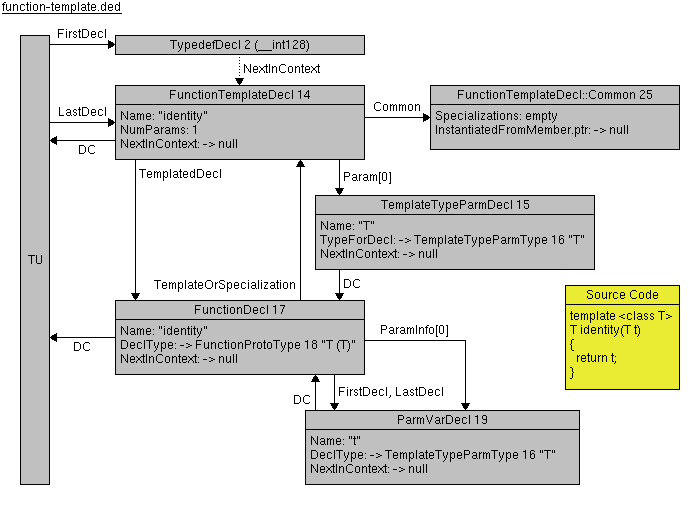
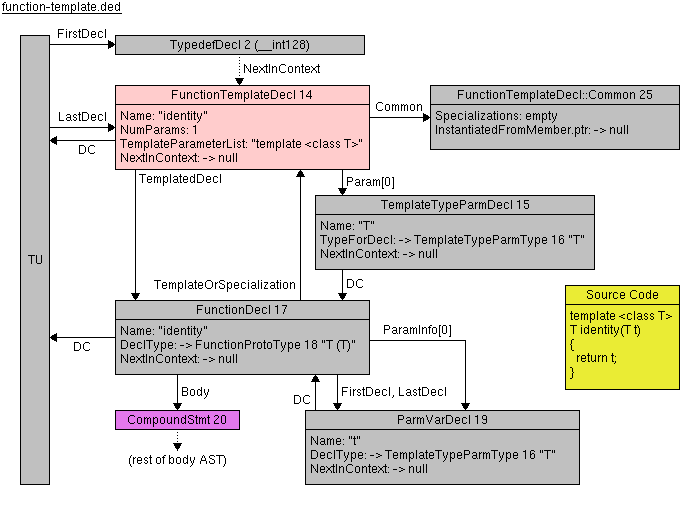
doc/ASTsForTemplates.rst: Revise through FunctionDecl.

diff --git a/doc/ASTsForTemplates.rst b/doc/ASTsForTemplates.rst
@@ -37,6 +37,16 @@ the former.  But AST elements that are orthogonal to templates and not
 conceptually foundational to them are described only briefly, or omitted
 entirely.
 
+This document currently omits discussion of some topics:
+
+* Template non-type parameters and template template parameters.
+
+* Template ``requires`` constraints.
+
+* Concepts.
+
+* [TODO: There are others.]
+
 There is some overlap between material here and the comments in the
 source code.  This document is meant to provide a complimentary overview
 of the most important structures, while source code comments go into
@@ -67,21 +77,33 @@ the C++ standard.  Some key terms are listed below:
   semantic entity (as well as being one particular syntactic declaration
   of it).
 
-* A non-dependent *type* represents a (usually infinite) set of
-  potential objects (run-time values).  To say an object has a type is
-  to say it is in the type's set.  A type is a *semantic* notion, not
-  inherently tied to any particular source code location.  However, in
-  the Clang AST, a type that was defined using a declaration (such as a
-  ``class`` or a ``typedef``) provides a way to navigate back to that
-  declaration, and some AST nodes contain ``TypeLoc`` objects that
-  augment a type with source location information for a particular
-  syntactic description of a type.  [TODO: I'm not entirely satisfied
-  with this definition, but the standard doesn't give one.]
+* A *type* is a semantic property of an expression or declared entity.
+  A non-dependent type constrains the set of allowable operations on the
+  expression or entity.  Object types (as opposed to function types)
+  also specify how many bytes of storage objects of that type occupy and
+  how those bytes are interpreted as mathematical objects.  Because a
+  type is a semantic notion, it (unlike a declaration) is not inherently
+  tied to any particular source location.  However, in the Clang AST, a
+  type that was defined using a declaration (such as a ``class`` or a
+  ``typedef``) provides a way to navigate back to that declaration, and
+  some AST nodes contain ``TypeLoc`` objects that augment a type with
+  source location information for a particular syntactic description of
+  a type.
 
-* A *dependent type* is a mathematical function whose input is a
-  sequence of template arguments and whose output is either a
-  non-dependent type if all of the arguments are non-dependent, or
-  another dependent type otherwise.
+* A *dependent type* is a type that depends in some way on unspecified
+  template arguments.  Generally, dependent types have fewer constraints
+  on the set of allowable operations and less information about size and
+  interpretation of their representation than do non-dependent types.
+
+* A *canonical type* is one constructed in such a way that two canonical
+  types are semantically equivalent if and only if they are structurally
+  identical.  For example, after ``typedef int MyInt;``, ``MyInt`` is
+  semantically equivalent to ``int`` but (in the Clang AST) is not
+  structurally identical because ``MyInt`` knows its user-defined name
+  and declaration location, so it is not canonical.  Given an arbitrary
+  type, the Clang API has methods (such as
+  ``QualType::getCanonicalType()``) to get the corresponding canonical
+  type.
 
 * A *template* is a kind of declaration, represented as an object that
   is a subtype of ``TemplateDecl``.  It corresponds to the
@@ -190,8 +212,25 @@ The primary objects of interest are ``FunctionTemplateDecl``,
 ``TemplateTypeParmDecl``, ``FunctionDecl``, and ``ParmVarDecl``.  We'll
 look at each in turn.
 
+
 ``FunctionTemplateDecl``
 ------------------------
+
+At a high level, ``FunctionTemplateDecl`` has three key pieces of data:
+
+* A sequence of template parameters.
+
+* A pointer to the templated function declaration.
+
+* The set of specializations, both implicit and explicit.
+
+That's probably enough to know on a first reading of this document, so
+you may want to skip the remainder of this section and come back later
+to study these foundational details.  This pattern is repeated
+throughout this document: for each type of object, there is a brief,
+high-level description, followed by details that are skippable on a
+first read.  The details always begin with the inheritance hierarchy,
+so that's the natural choice point regarding what to read when.
 
 Let's dig into ``FunctionTemplateDecl``.  Its inheritance structure is::
 
@@ -206,9 +245,9 @@ Let's dig into ``FunctionTemplateDecl``.  Its inheritance structure is::
 
 The Doxygen-generated documentation focuses on the public methods, but
 it is hard to tell how things really work by looking at that.  Instead,
-we need to look at the private data structure definitions.  The set of
-fields of ``FunctionTemplateDecl``, simplified a little by giving names
-to fields stored in the low bits of pointers, is:
+we need to look at the private data structure definitions.  The fields
+of ``FunctionTemplateDecl``, simplified a little by giving names to
+fields stored in the low bits of pointers, are:
 
 * From base class ``Decl``:
 
@@ -310,19 +349,19 @@ For the example fragment above, the most important relations are:
 * ``Redeclarable::Previous`` points to itself, meaning there are no
   other redeclarations.
 
-* ``RedeclarableTemplateDecl::Common->InstantiatedFromMember`` is
-  ``nullptr`` because (among other things) this isn't a member of any
-  class.
-
 * ``RedeclarableTemplateDecl::Common->Specializations`` is empty because
   there are no specializations.
-
-Later we will look at source code that causes these AST features to be
-less degenerate.
 
 
 ``TemplateTypeParmDecl``
 ------------------------
+
+At a high level, ``TemplateTypeParmDecl`` declares a new dependent type,
+for use within the scope of the template, whose concrete details are
+known only when a template argument is supplied.  The type is
+represented by a ``TemplateTypeParmType`` object whose most important
+piece of data is simply a pointer back to the corresponding
+``TemplateTypeParmDecl``.
 
 The class hierarchy for ``TemplateTypeParmDecl`` is::
 
@@ -402,11 +441,6 @@ The fields of ``TemplateTypeParmDecl`` are:
     expanded parameter pack.  [TODO: Explain more.  Where are those
     parameters?]
 
-The main takeaway here is that, within the scope of the template
-declaration, ``TemplateTypeParmDecl`` acts like the declaration of a new
-type, namely a fresh ``TemplateTypeParmType`` that is associated with
-that particular parameter.
-
 It is also worth noting that ``TemplateTypeParmDecl`` does not have a
 direct pointer to its ``TemplateDecl``.  Instead, to navigate to the
 ``TemplateDecl``, one must use ``DeclCtx`` to get to the templated
@@ -417,6 +451,28 @@ that is the ``TemplateOrSpecialization`` field).
 
 ``FunctionDecl``
 ----------------
+
+A ``FunctionDecl`` declares, and optionally defines, a function.  There
+are three main kinds of template-associated ``FunctionDecl`` nodes:
+
+* The templated function in a ``FunctionTemplateDecl``, which provides
+  the pattern from which instantiation can proceed.
+
+* A specialization of a function template, resulting either from
+  instantiation or explicit specialization of a template declaration.
+  This is discussed further under `FunctionTemplateSpecializationInfo`_.
+
+* A specialization of a member (method) of a class template, where the
+  method itself may or may not also be a template.  This is discussed
+  further under `MemberSpecializationInfo`_.
+
+In all three cases, the ``FunctionDecl`` has a pointer to the structure
+that describes its template-ness.
+
+Additionally, the parameters and body of a template-associated
+``FunctionDecl`` can refer to ``TemplateTypeParmType`` objects (and
+non-type and template template parameters, but those are currently
+out of the scope of this document).
 
 The class hierarchy for ``FunctionDecl`` is::
 
@@ -622,8 +678,11 @@ The fields of ``FunctionDecl`` are:
 ``ParmVarDecl``
 ---------------
 
-Lastly for this example, let's look at ``ParmVarDecl``, which has this
-inheritance diagram::
+A ``ParmVarDecl`` is a declaration of a function parameter.  For the
+purpose of this document, the most important thing is its
+``ValueDecl::DeclType`` can be or refer to a ``TemplateTypeParmType``.
+
+``ParmVarDecl`` has this inheritance diagram::
 
     Class Name                 Header          Novel?
     -------------------------  --------------  ------------
@@ -640,33 +699,14 @@ Its fields are:
 * Those from ``DeclaratorDecl``, ``ValueDecl``, ``NamedDecl``,
   ``Decl``, and ``Redeclarable``, discussed above.  With respect to
   templates, the main notable thing is that ``ValueDecl::DeclType`` is a
-  ``TemplateTypeParmType`` here.
+  ``TemplateTypeParmType`` in the ``identity`` function template example
+  under consideration.
 
 * From ``VarDecl``:
 
   * ``llvm::PointerUnion<Stmt *, EvaluatedStmt *> Init``: Pointer to
-    the initializer or default argument.
-
-    * In the ``Stmt*`` case, this is an ordinary AST pointer, and no
-      attempt has been made to evaluate it.
-
-    * In the ``EvaluatedStmt*`` case, this points to an
-      ``EvaluatedStmt`` (defined in ``Decl.h``) object that is "owned"
-      by the ``VarDecl``.  There might not have been any attempt to
-      evaluate (merely the structure allocated as preparation), or
-      evaluation may have been attempted and succeeded or failed.
-      ``EvaluatedStmt`` contains:
-
-      * Several flags that relate to the evaluation state and results.
-
-      * ``Stmt *Value``: Pointer to the expression, like the case where
-        only a ``Stmt *`` is stored.
-
-      * ``APValue Evaluated``: The result of evaluation, if it has been
-        attempted.  In that case, an ``APValue`` kind of ``None`` means
-        the evaluation failed.  This might contain additional allocated
-        resources (e.g., it could be a large arbitrary-precision
-        integer), and those too are owned by the ``VarDecl``.
+    the initializer or default argument.  The details are orthogonal to
+    templates, so omitted here.
 
   * ``VarDeclBits``: Describes storage class and initialization syntax,
     neither of which is particularly relevant for templates.
@@ -692,12 +732,25 @@ single function template:
 
 .. image:: ASTsForTemplatesImages/function-template.ded.png
 
-The ``TypedefDecl`` shown at the top is first of several implicitly
-defined typedefs.  Their ``NextInContext`` chain ends with the
-``FunctionTemplateDecl``.
+In this diagram, and all that follow, the peach-colored node is the most
+important, "focus" node.  Here, it is the ``FunctionTemplateDecl 14``
+node corresponding to the template declaration.  (The numbers in the box
+titles are arbitrary, being artifacts of the process by which the
+diagram was created.)
 
-(The numbers in the box titles are arbitrary, being artifacts of the
-process by which the diagram was created.)
+Observations:
+
+* The ``TypedefDecl`` shown at the top is first of several implicitly
+  defined typedefs.  Their ``NextInContext`` chain ends with
+  ``FunctionTemplateDecl 14``.
+
+* ``FunctionTemplateDecl 14`` and ``FunctionDecl 17`` point to each
+  other.
+
+* There are no specializations in ``FunctionTemplateDecl::Common 25``.
+
+* ``TemplateTypeParmDecl 15`` uses the template\ **d** function as its
+  ``DeclContext``.
 
 
 Function template instantiation
